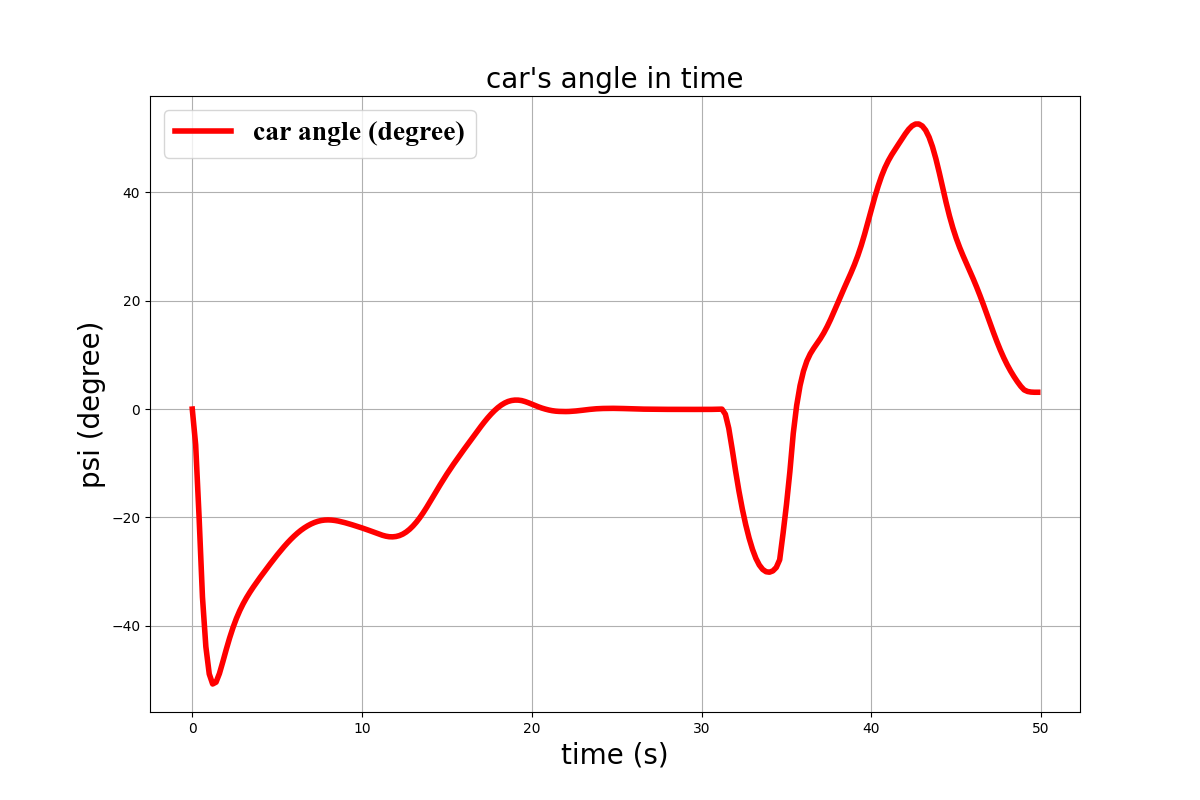
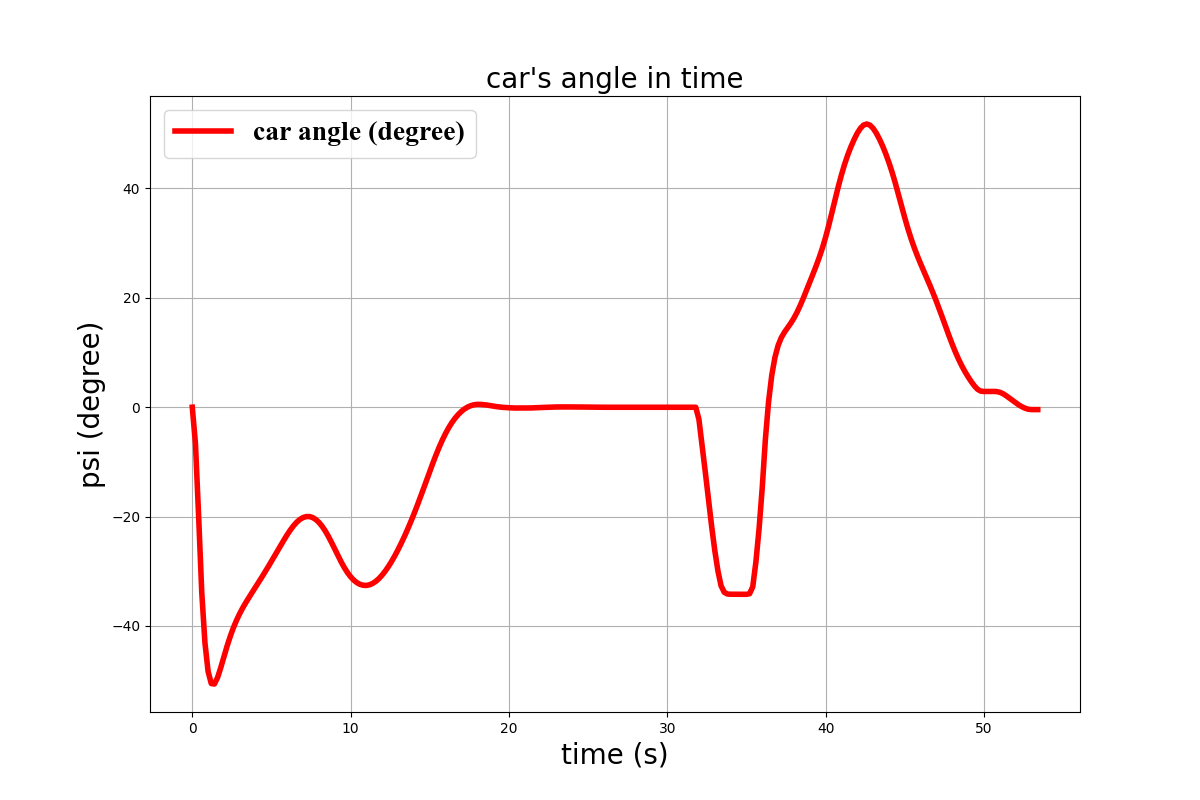
path works!

diff --git a/CAR kinematic model/pathplanning.py b/CAR kinematic model/pathplanning.py
@@ -282,10 +282,10 @@ class ParkPathPlanning:
         s = 8
         l = 14
         d = 4
-        w = 8
-        s2 = 2
-        l2 = 2
-        d2 = 1
+        w = 7.5
+        s2 = 1.5
+        l2 = 1.5
+        d2 = 0.8
         w2 = 0.5
 
         x_ensure2 = gx
@@ -299,8 +299,8 @@ class ParkPathPlanning:
         ensure_path0 = np.vstack([np.arange(x_ensure0-20, x_ensure0 + 5, 1), np.repeat(y_ensure0, 20+5)]).T
         #Pull back strait, 20 less
         #At ES1
-        ensure_path1 = np.vstack([np.arange(x_ensure0,x_ensure0+2,0.5),np.repeat(y_ensure0,2/0.5)]).T
-        ensure_path2 = np.vstack([np.arange(x_ensure2-6,x_ensure2,0.5),np.repeat(y_ensure2,6/0.5)]).T
+        ensure_path1 = np.vstack([np.arange(x_ensure0,x_ensure0+2,0.2),np.repeat(y_ensure0,2/0.2)]).T
+        ensure_path2 = np.vstack([np.arange(x_ensure2,x_ensure2+3,0.2),np.repeat(y_ensure2,3/0.2)]).T
         park_path = self.plan_park_down_left(x_ensure2, y_ensure2, x_ensure1, y_ensure1, x_ensure0, y_ensure0)
 
         return np.array([x_ensure0-22, y_ensure0]), park_path, ensure_path0 ,ensure_path1, ensure_path2
@@ -310,7 +310,7 @@ class ParkPathPlanning:
             curve_x = np.array([])
             curve_y = np.array([])
 
-            sixdot_nine_a = 3  # Increase number to make middle slower
+            sixdot_nine_a = 2.6  # Increase number to make middle slower
 
             x = np.arange(x1, x0 + 1)
             circle_fun = (sixdot_nine_a ** 2 - (x - x0) ** 2)
@@ -334,7 +334,7 @@ class ParkPathPlanning:
             curve_x = np.append(curve_x, x[::-1])
             curve_y = np.append(curve_y, y[::-1])
 
-            sixdot_nine_b = 13 #Increase number to make middle slower
+            sixdot_nine_b = 12.65 #Increase number to make middle slower
 
             x = np.arange(x2, x1 + 1)
             circle_fun = (sixdot_nine_b ** 2 - (x - x1) ** 2)
@@ -347,10 +347,14 @@ class ParkPathPlanning:
             curve_x = np.append(curve_x, x[::-1])
             curve_y = np.append(curve_y, y[::-1])
 
+            sixdot_nine_b = 14
+
+            offset = 0
+
 
             x = np.arange(x2, x1 + 1)
             circle_fun = (sixdot_nine_b ** 2 - (x - x2) ** 2)
-            y = (np.sqrt(circle_fun[circle_fun >= 0]) + y2 + sixdot_nine_b)
+            y = (np.sqrt(circle_fun[circle_fun >= 0]) + y2 + sixdot_nine_b - offset)
             x = x[circle_fun >= 0]
             y = (y - 2 * (y - (y2 + sixdot_nine_b)))
             choices = y < y2 + sixdot_nine_b / 2

diff --git a/CAR kinematic model/main_autopark.py b/CAR kinematic model/main_autopark.py
@@ -77,10 +77,10 @@ if __name__ == '__main__':
     interpolated_park_path = interpolate_path(park_path, sample_rate=2)
     # interpolated_path = path
     # interpolated_park_path = park_path
-    # interpolated_park_path = np.vstack([ensure_path1[::-1], interpolated_park_path, ensure_path2[::-1]])
-    interpolated_park_path = np.vstack([ensure_path1[::-1], interpolated_park_path])
+    interpolated_park_path = np.vstack([ensure_path1[::-1], interpolated_park_path, ensure_path2])
+    # interpolated_park_path = np.vstack([ensure_path1[::-1], interpolated_park_path])
 
-    # env.draw_path(interpolated_path)
+    env.draw_path(interpolated_path)
     env.draw_path(interpolated_park_path)
 
     # final_path = np.vstack([interpolated_path, interpolated_park_path, ensure_path2])

diff --git a/CAR kinematic model/environment.py b/CAR kinematic model/environment.py
@@ -124,7 +124,6 @@ class Parking1:
                      # [[20, i] for i in range(80, 90)] +\
                      # [[40, i] for i in range(80, 91)]
                      # [[20, i] for i in range(20, 40)]
-            # self.walls = [0,100]
         self.obs = np.array(self.walls)
         self.cars = {1 : [[25,75]],2 : [[5,65]],3 : [[40,65]]}
         self.end = self.cars[car_pos][0]
